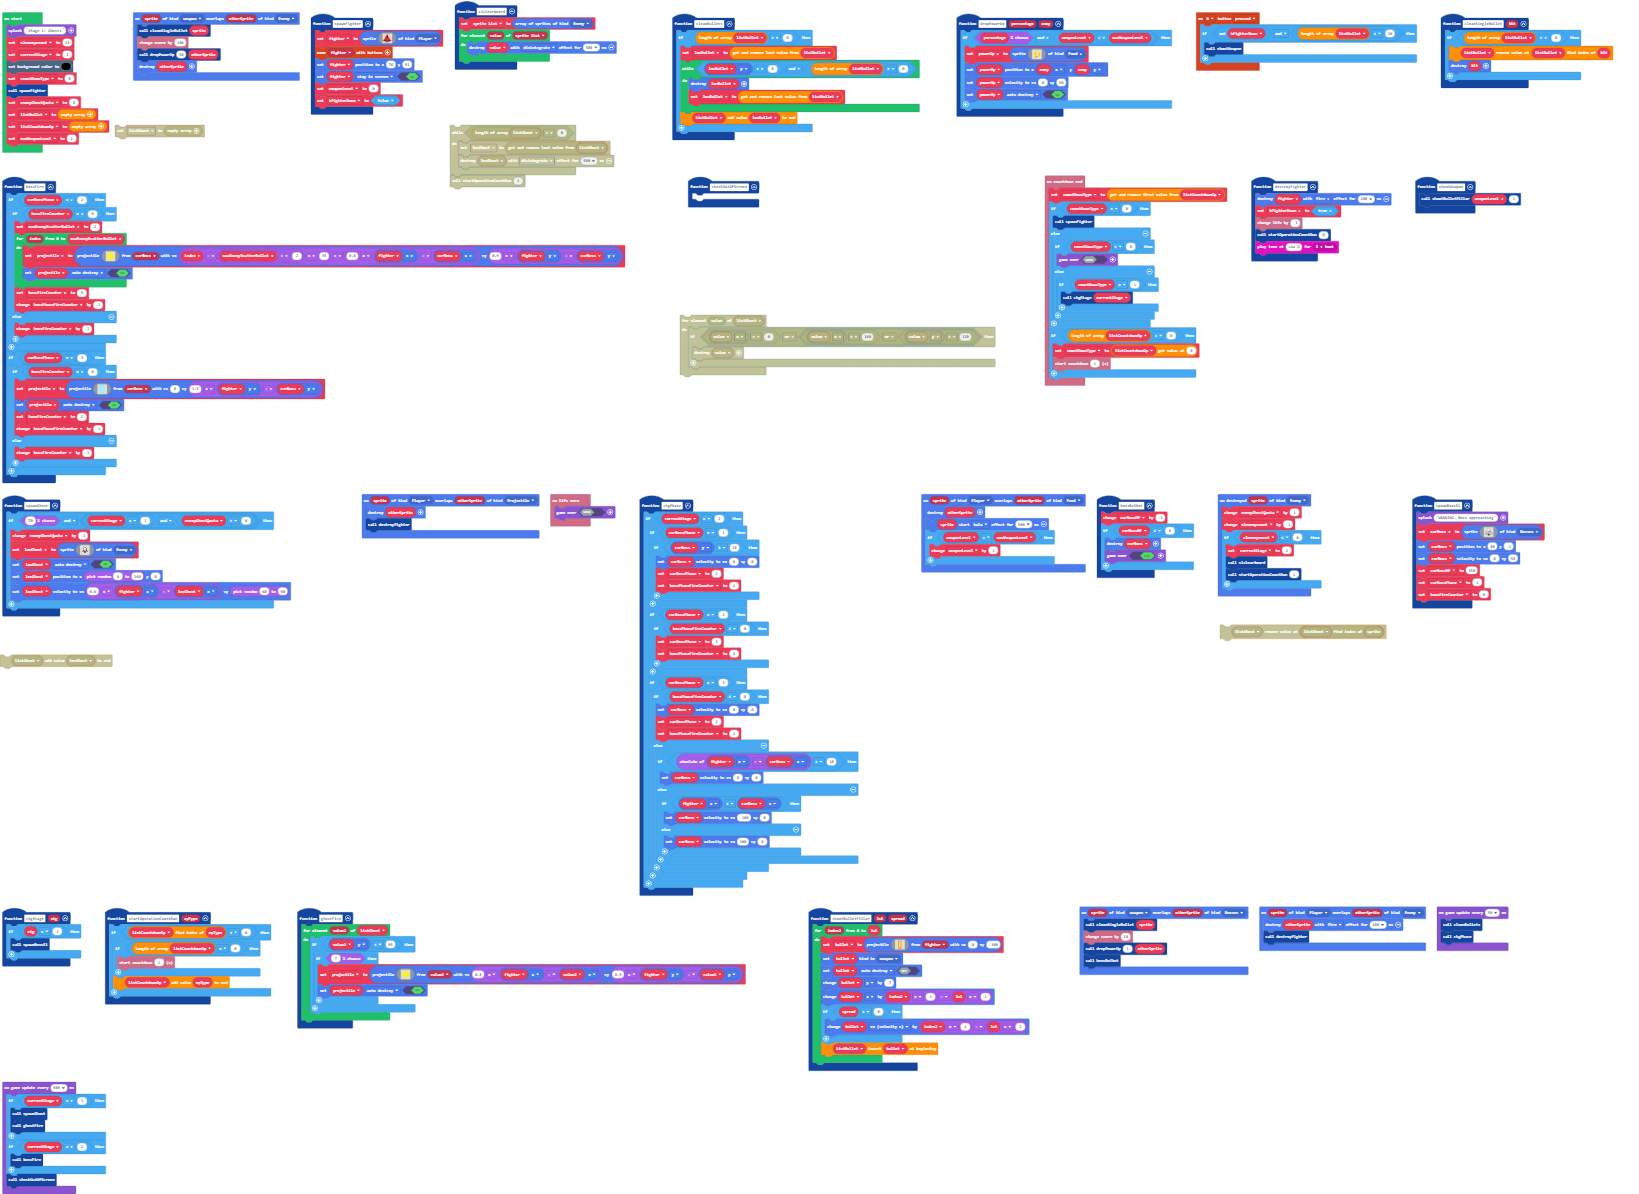
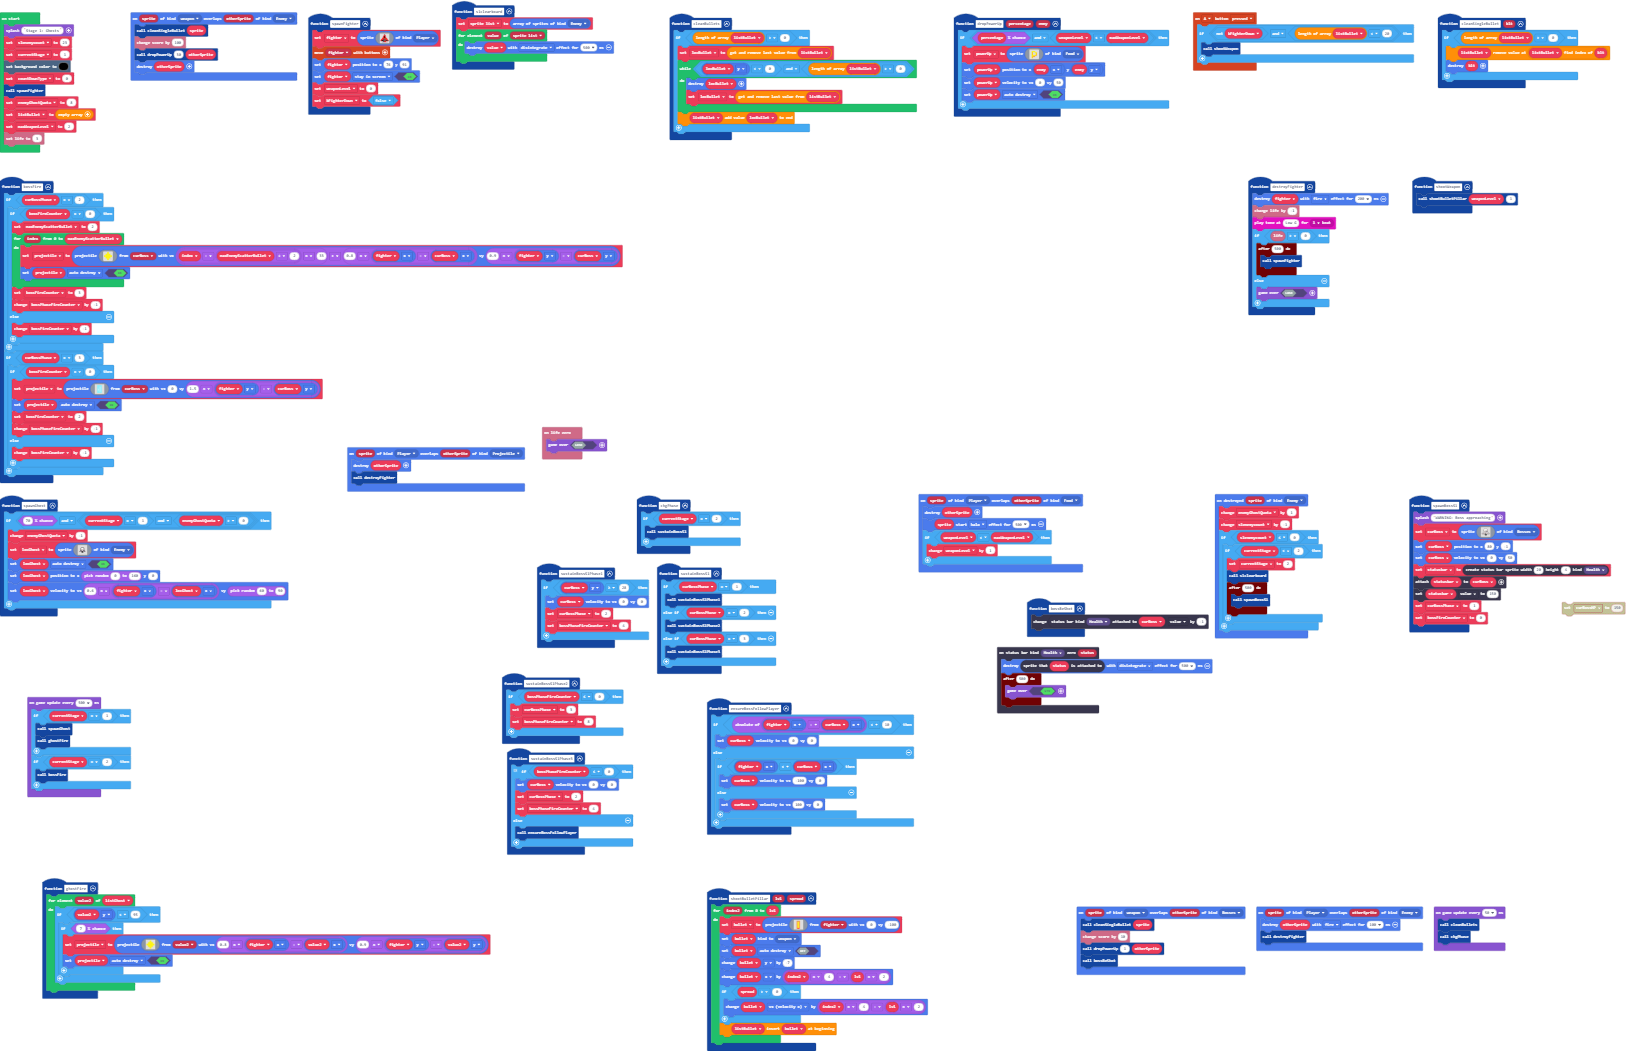
add lifebar to boss, lots of optimization

diff --git a/main.ts b/main.ts
@@ -8,6 +8,17 @@ sprites.onOverlap(SpriteKind.weapon, SpriteKind.Enemy, function (sprite, otherSp
     dropPowerUp(30, otherSprite)
     otherSprite.destroy()
 })
+function sustainBossS1Phase3 () {
+    // if already finished several shots, change back to phase-2;
+    // else keep following the plane
+    if (bossPhaseFireCounter <= 0) {
+        curBoss.setVelocity(0, 0)
+        curBossPhase = 2
+        bossPhaseFireCounter = 4
+    } else {
+        ensureBossFollowPlayer()
+    }
+}
 function spawnFighter () {
     fighter = sprites.create(img`
         . . . . . . . c 2 . . . . . . . 
@@ -137,37 +148,47 @@ function bossFire () {
         }
     }
 }
-function checkOutOfScreen () {
-	
-}
-info.onCountdownEnd(function () {
-    countDownType = listCountdownOp.shift()
-    if (countDownType == 0) {
-        spawnFighter()
+function ensureBossFollowPlayer () {
+    if (Math.abs(fighter.x - curBoss.x) < 10) {
+        curBoss.setVelocity(0, 0)
     } else {
-        if (countDownType < 0) {
-            game.over(false)
+        if (fighter.x < curBoss.x) {
+            curBoss.setVelocity(-100, 0)
         } else {
-            if (countDownType == 1) {
-                chgStage(currentStage)
-            }
+            curBoss.setVelocity(100, 0)
         }
     }
-    if (listCountdownOp.length > 0) {
-        countDownType = listCountdownOp[0]
-        info.startCountdown(1)
+}
+function sustainBossS1 () {
+    if (curBossPhase == 1) {
+        sustainBossS1Phase1()
+    } else if (curBossPhase == 2) {
+        sustainBossS1Phase2()
+    } else if (curBossPhase == 3) {
+        sustainBossS1Phase3()
     }
-})
+}
 function destroyFighter () {
     fighter.destroy(effects.fire, 200)
-    bFighterDown = true
     info.changeLifeBy(-1)
-    startOperationCountDwn(0)
     music.playTone(196, music.beat(BeatFraction.Whole))
+    if (info.life() > 0) {
+        timer.after(500, function () {
+            spawnFighter()
+        })
+    } else {
+        game.over(false)
+    }
 }
 function shootWeapon () {
     shootBulletPillar(weaponLevel, 1)
 }
+statusbars.onZero(StatusBarKind.Health, function (status) {
+    status.spriteAttachedTo().destroy(effects.disintegrate, 500)
+    timer.after(500, function () {
+        game.over(true)
+    })
+})
 function spawnGhost () {
     if (Math.percentChance(70) && (currentStage == 1 && enemyGhostQuota > 0)) {
         enemyGhostQuota += -1
@@ -206,41 +227,19 @@ sprites.onOverlap(SpriteKind.Player, SpriteKind.Projectile, function (sprite, ot
     otherSprite.destroy()
     destroyFighter()
 })
+function sustainBossS1Phase1 () {
+    if (curBoss.y >= 28) {
+        curBoss.setVelocity(0, 0)
+        curBossPhase = 2
+        bossPhaseFireCounter = 4
+    }
+}
 info.onLifeZero(function () {
     game.over(false)
 })
 function chgPhase () {
     if (currentStage == 2) {
-        if (curBossPhase == 1) {
-            if (curBoss.y >= 28) {
-                curBoss.setVelocity(0, 0)
-                curBossPhase = 2
-                bossPhaseFireCounter = 4
-            }
-        }
-        if (curBossPhase == 2) {
-            if (bossPhaseFireCounter <= 0) {
-                curBossPhase = 3
-                bossPhaseFireCounter = 8
-            }
-        }
-        if (curBossPhase == 3) {
-            if (bossPhaseFireCounter <= 0) {
-                curBoss.setVelocity(0, 0)
-                curBossPhase = 2
-                bossPhaseFireCounter = 4
-            } else {
-                if (Math.abs(fighter.x - curBoss.x) < 10) {
-                    curBoss.setVelocity(0, 0)
-                } else {
-                    if (fighter.x < curBoss.x) {
-                        curBoss.setVelocity(-100, 0)
-                    } else {
-                        curBoss.setVelocity(100, 0)
-                    }
-                }
-            }
-        }
+        sustainBossS1()
     }
 }
 sprites.onOverlap(SpriteKind.Player, SpriteKind.Food, function (sprite, otherSprite) {
@@ -250,20 +249,26 @@ sprites.onOverlap(SpriteKind.Player, SpriteKind.Food, function (sprite, otherSpr
         weaponLevel += 1
     }
 })
-function bossBeShot () {
-    curBossHP += -1
-    if (curBossHP <= 0) {
-        curBoss.destroy()
-        game.over(true)
+function sustainBossS1Phase2 () {
+    if (bossPhaseFireCounter <= 0) {
+        curBossPhase = 3
+        bossPhaseFireCounter = 8
     }
+}
+function bossBeShot () {
+    statusbars.getStatusBarAttachedTo(StatusBarKind.Health, curBoss).value += -1
 }
 sprites.onDestroyed(SpriteKind.Enemy, function (sprite) {
     enemyGhostQuota += 1
     s1enemycount += -1
     if (s1enemycount <= 0) {
-        currentStage = 2
-        s1clearboard()
-        startOperationCountDwn(1)
+        if (currentStage < 2) {
+            currentStage = 2
+            s1clearboard()
+            timer.after(500, function () {
+                spawnBossS1()
+            })
+        }
     }
 })
 function spawnBossS1 () {
@@ -320,22 +325,11 @@ function spawnBossS1 () {
         `, SpriteKind.Bosses)
     curBoss.setPosition(80, -1)
     curBoss.setVelocity(0, 50)
-    curBossHP = 150
+    statusbar = statusbars.create(20, 4, StatusBarKind.Health)
+    statusbar.attachToSprite(curBoss)
+    statusbar.value = 150
     curBossPhase = 1
     bossFireCounter = 0
-}
-function chgStage (stg: number) {
-    if (stg == 2) {
-        spawnBossS1()
-    }
-}
-function startOperationCountDwn (opType: number) {
-    if (listCountdownOp.indexOf(opType) < 0) {
-        if (listCountdownOp.length == 0) {
-            info.startCountdown(1)
-        }
-        listCountdownOp.push(opType)
-    }
 }
 function ghostFire () {
     let listGhost: Sprite[] = []
@@ -389,37 +383,35 @@ sprites.onOverlap(SpriteKind.Player, SpriteKind.Enemy, function (sprite, otherSp
     destroyFighter()
 })
 let bullet: Sprite = null
-let curBossHP = 0
+let statusbar: StatusBarSprite = null
 let locGhost: Sprite = null
-let bossPhaseFireCounter = 0
-let curBoss: Sprite = null
 let projectile: Sprite = null
 let maxEnemyScatterBullet = 0
 let bossFireCounter = 0
-let curBossPhase = 0
 let powerUp: Sprite = null
 let locBullet: Sprite = null
 let sprite_list: Sprite[] = []
 let bFighterDown = false
 let weaponLevel = 0
 let fighter: Sprite = null
+let curBossPhase = 0
+let curBoss: Sprite = null
+let bossPhaseFireCounter = 0
 let maxWeaponLevel = 0
-let listCountdownOp: number[] = []
 let listBullet: Sprite[] = []
 let enemyGhostQuota = 0
-let countDownType = 0
 let currentStage = 0
 let s1enemycount = 0
 game.splash("Stage 1: Ghosts")
 s1enemycount = 23
 currentStage = 1
 scene.setBackgroundColor(15)
-countDownType = 0
+let countDownType = 0
 spawnFighter()
 enemyGhostQuota = 8
 listBullet = []
-listCountdownOp = []
 maxWeaponLevel = 2
+info.setLife(3)
 game.onUpdateInterval(50, function () {
     cleanBullets()
     chgPhase()
@@ -432,5 +424,4 @@ game.onUpdateInterval(500, function () {
     if (currentStage == 2) {
         bossFire()
     }
-    checkOutOfScreen()
 })
